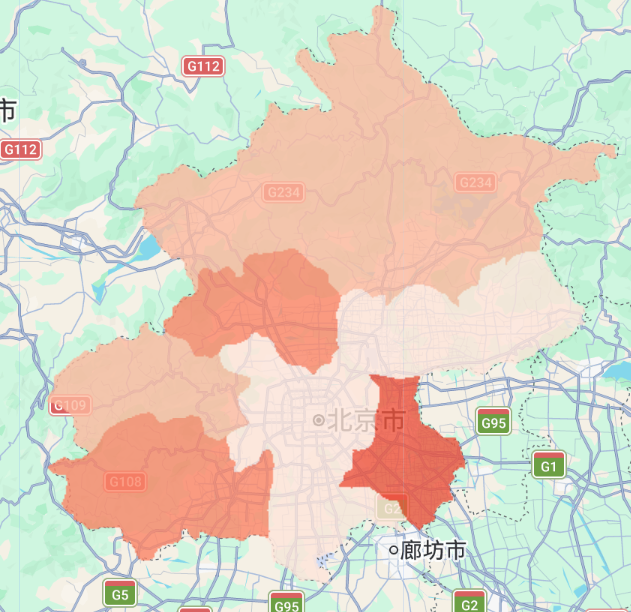
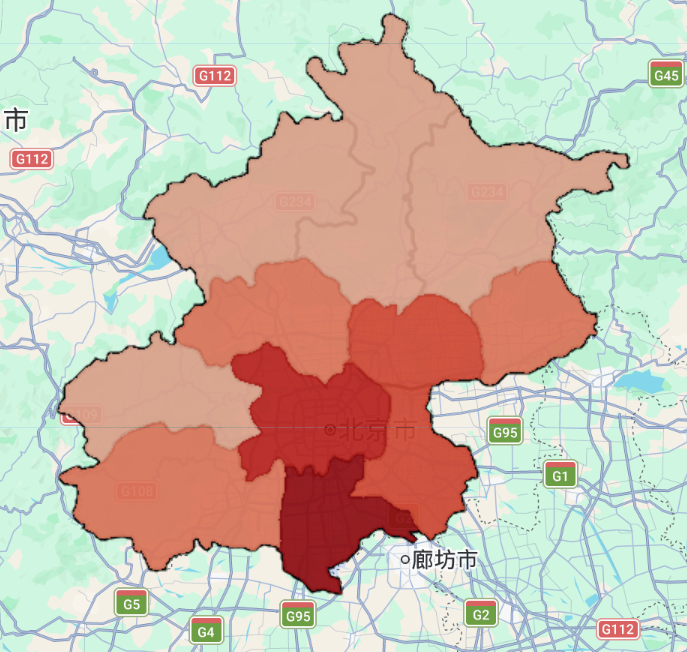
week9 1.1

diff --git a/docs/week9.html b/docs/week9.html
@@ -9,7 +9,7 @@
 <meta name="author" content="Jianshu Wu">
 <meta name="dcterms.date" content="2026-03-21">
 
-<title>Week 9: Temperature – CASA0023 Learning Diary</title>
+<title>Week 9 Learning Diary: Temperature – CASA0023 Learning Diary</title>
 <style>
 code{white-space: pre-wrap;}
 span.smallcaps{font-variant: small-caps;}
@@ -444,10 +444,10 @@ window.Quarto = {
   <li><a href="#applications-of-the-content" id="toc-applications-of-the-content" class="nav-link" data-scroll-target="#applications-of-the-content">2. Applications of the Content</a>
   <ul class="collapse">
   <li><a href="#study-area-beijing-municipality" id="toc-study-area-beijing-municipality" class="nav-link" data-scroll-target="#study-area-beijing-municipality">2.1 Study Area: Beijing Municipality</a></li>
-  <li><a href="#workshop-loading-and-styling-the-study-area-boundary" id="toc-workshop-loading-and-styling-the-study-area-boundary" class="nav-link" data-scroll-target="#workshop-loading-and-styling-the-study-area-boundary">2.2 Workshop: Loading and Styling the Study Area Boundary</a></li>
-  <li><a href="#workshop-landsat-8-land-surface-temperature" id="toc-workshop-landsat-8-land-surface-temperature" class="nav-link" data-scroll-target="#workshop-landsat-8-land-surface-temperature">2.3 Workshop: Landsat 8 Land Surface Temperature</a></li>
-  <li><a href="#workshop-modis-time-series-and-per-district-analysis" id="toc-workshop-modis-time-series-and-per-district-analysis" class="nav-link" data-scroll-target="#workshop-modis-time-series-and-per-district-analysis">2.4 Workshop: MODIS Time Series and Per-District Analysis</a></li>
-  <li><a href="#workshop-heat-index-classification-in-gee-and-r" id="toc-workshop-heat-index-classification-in-gee-and-r" class="nav-link" data-scroll-target="#workshop-heat-index-classification-in-gee-and-r">2.5 Workshop: Heat Index Classification in GEE and R</a></li>
+  <li><a href="#loading-the-study-area-boundary" id="toc-loading-the-study-area-boundary" class="nav-link" data-scroll-target="#loading-the-study-area-boundary">2.2 Loading the Study Area Boundary</a></li>
+  <li><a href="#landsat-8-land-surface-temperature" id="toc-landsat-8-land-surface-temperature" class="nav-link" data-scroll-target="#landsat-8-land-surface-temperature">2.3 Landsat 8 Land Surface Temperature</a></li>
+  <li><a href="#modis-time-series-and-per-district-analysis" id="toc-modis-time-series-and-per-district-analysis" class="nav-link" data-scroll-target="#modis-time-series-and-per-district-analysis">2.4 MODIS Time Series and Per-District Analysis</a></li>
+  <li><a href="#heat-index-classification-in-gee-and-r" id="toc-heat-index-classification-in-gee-and-r" class="nav-link" data-scroll-target="#heat-index-classification-in-gee-and-r">2.5 Heat Index Classification in GEE and R</a></li>
   <li><a href="#extended-analysis-mann-kendall-trend-test" id="toc-extended-analysis-mann-kendall-trend-test" class="nav-link" data-scroll-target="#extended-analysis-mann-kendall-trend-test">2.6 Extended Analysis: Mann-Kendall Trend Test</a></li>
   <li><a href="#literature-heat-justice-and-eo-evidence" id="toc-literature-heat-justice-and-eo-evidence" class="nav-link" data-scroll-target="#literature-heat-justice-and-eo-evidence">2.7 Literature: Heat Justice and EO Evidence</a></li>
   </ul></li>
@@ -466,7 +466,7 @@ window.Quarto = {
 
 <header id="title-block-header" class="quarto-title-block default">
 <div class="quarto-title">
-<h1 class="title">Week 9: Temperature</h1>
+<h1 class="title">Week 9 Learning Diary: Temperature</h1>
 <p class="subtitle lead">Urban Heat, Social Inequality, and Land Surface Temperature Analysis over Beijing in GEE and R</p>
 </div>
 
@@ -580,7 +580,7 @@ Percentile Rank vs.&nbsp;Absolute Temperature
 <h2 class="anchored" data-anchor-id="applications-of-the-content">2. Applications of the Content</h2>
 <section id="study-area-beijing-municipality" class="level3">
 <h3 class="anchored" data-anchor-id="study-area-beijing-municipality">2.1 Study Area: Beijing Municipality</h3>
-<p>I chose <strong>Beijing</strong> as the study area for this week, following the workshop structure exactly. Beijing municipality is an ideal case for urban heat analysis: it is a large, dense megacity surrounded by mountainous rural areas, meaning the contrast between <strong>hot urban core</strong> and <strong>cooler periphery</strong> is sharp and spatially interpretable. The municipality encompasses both the dense commercial and residential centre and extensive outer districts including mountainous terrain to the north and west.</p>
+<p>I chose <strong>Beijing</strong> as the study area for this week. Beijing municipality is an ideal case for urban heat analysis: it is a large, dense megacity surrounded by mountainous rural areas, meaning the contrast between <strong>hot urban core</strong> and <strong>cooler periphery</strong> is sharp and spatially interpretable. The municipality encompasses both the dense commercial and residential centre and extensive outer districts including mountainous terrain to the north and west.</p>
 <p>For administrative boundaries I used <strong>GADM 4.1</strong> rather than FAO GAUL, because GAUL Level 2 returns only 2 features for Beijing — insufficient for meaningful per-district analysis. GADM Level 2 provides the overall municipality boundary (used for <code>filterBounds</code> and <code>clip</code>), while GADM Level 3 provides <strong>11 spatial units</strong>: 10 outer districts plus one combined central urban area encompassing the six inner districts that GADM aggregates into a single feature.</p>
 <div class="callout callout-style-default callout-note callout-titled">
 <div class="callout-header d-flex align-content-center">
@@ -596,9 +596,9 @@ GAUL vs GADM for Chinese Cities
 </div>
 </div>
 </section>
-<section id="workshop-loading-and-styling-the-study-area-boundary" class="level3">
-<h3 class="anchored" data-anchor-id="workshop-loading-and-styling-the-study-area-boundary">2.2 Workshop: Loading and Styling the Study Area Boundary</h3>
-<p>The first step follows the workshop exactly: load the global Level 1 administrative dataset for background reference, then define the study area boundary. Here the Beijing boundary is derived from GADM Level 2 using <code>.union()</code> to merge all district polygons into a single municipality outline, and the 11 GADM Level 3 districts are loaded separately for per-unit analysis.</p>
+<section id="loading-the-study-area-boundary" class="level3">
+<h3 class="anchored" data-anchor-id="loading-the-study-area-boundary">2.2 Loading the Study Area Boundary</h3>
+<p>The Beijing boundary is derived from GADM Level 2 using <code>.union()</code> to merge all district polygons into a single municipality outline, and the 11 GADM Level 3 districts are loaded separately for per-unit analysis.</p>
 <details>
 <summary>
 Show GEE code
@@ -622,9 +622,9 @@ Show GEE code
 <span id="cb1-17"><a href="#cb1-17" aria-hidden="true" tabindex="-1"></a><span class="bu">Map</span><span class="op">.</span><span class="fu">addLayer</span>(Beijing<span class="op">,</span> {}<span class="op">,</span> <span class="st">'Beijing'</span>)<span class="op">;</span></span></code><button title="Copy to Clipboard" class="code-copy-button"><i class="bi"></i></button></pre></div>
 </details>
 </section>
-<section id="workshop-landsat-8-land-surface-temperature" class="level3">
-<h3 class="anchored" data-anchor-id="workshop-landsat-8-land-surface-temperature">2.3 Workshop: Landsat 8 Land Surface Temperature</h3>
-<p>The Landsat workflow follows the workshop exactly. The thermal band <strong>ST_B10</strong> records top-of-atmosphere brightness temperature in <strong>Kelvin</strong>; after applying the standard scale factor and subtracting 273.1, the result is surface temperature in <strong>Celsius</strong>. A cloud cover threshold of <strong>&lt; 1%</strong> is used — Beijing’s relatively dry summer climate makes this feasible, and the resulting 13 scenes provide adequate coverage.</p>
+<section id="landsat-8-land-surface-temperature" class="level3">
+<h3 class="anchored" data-anchor-id="landsat-8-land-surface-temperature">2.3 Landsat 8 Land Surface Temperature</h3>
+<p>The thermal band <strong>ST_B10</strong> records top-of-atmosphere brightness temperature in <strong>Kelvin</strong>; after applying the standard scale factor and subtracting 273.1, the result is surface temperature in <strong>Celsius</strong>. A cloud cover threshold of <strong>&lt; 10%</strong> is used — Beijing’s relatively dry summer climate makes this feasible, and the resulting 13 scenes provide adequate coverage.</p>
 <details>
 <summary>
 Show GEE code
@@ -642,7 +642,7 @@ Show GEE code
 <span id="cb2-11"><a href="#cb2-11" aria-hidden="true" tabindex="-1"></a>  <span class="op">.</span><span class="fu">filterDate</span>(<span class="st">'2022-01-01'</span><span class="op">,</span> <span class="st">'2022-10-10'</span>)</span>
 <span id="cb2-12"><a href="#cb2-12" aria-hidden="true" tabindex="-1"></a>  <span class="op">.</span><span class="fu">filter</span>(ee<span class="op">.</span><span class="at">Filter</span><span class="op">.</span><span class="fu">calendarRange</span>(<span class="dv">5</span><span class="op">,</span> <span class="dv">9</span><span class="op">,</span><span class="st">'month'</span>))</span>
 <span id="cb2-13"><a href="#cb2-13" aria-hidden="true" tabindex="-1"></a>  <span class="op">.</span><span class="fu">filterBounds</span>(Beijing)</span>
-<span id="cb2-14"><a href="#cb2-14" aria-hidden="true" tabindex="-1"></a>  <span class="op">.</span><span class="fu">filter</span>(ee<span class="op">.</span><span class="at">Filter</span><span class="op">.</span><span class="fu">lt</span>(<span class="st">"CLOUD_COVER"</span><span class="op">,</span> <span class="dv">1</span>))</span>
+<span id="cb2-14"><a href="#cb2-14" aria-hidden="true" tabindex="-1"></a>  <span class="op">.</span><span class="fu">filter</span>(ee<span class="op">.</span><span class="at">Filter</span><span class="op">.</span><span class="fu">lt</span>(<span class="st">"CLOUD_COVER"</span><span class="op">,</span> <span class="dv">10</span>))</span>
 <span id="cb2-15"><a href="#cb2-15" aria-hidden="true" tabindex="-1"></a>  <span class="op">.</span><span class="fu">map</span>(applyScaleFactors)<span class="op">;</span></span>
 <span id="cb2-16"><a href="#cb2-16" aria-hidden="true" tabindex="-1"></a></span>
 <span id="cb2-17"><a href="#cb2-17" aria-hidden="true" tabindex="-1"></a><span class="fu">print</span>(landsat)<span class="op">;</span></span>
@@ -678,8 +678,8 @@ Show GEE code
 </figure>
 </div>
 </section>
-<section id="workshop-modis-time-series-and-per-district-analysis" class="level3">
-<h3 class="anchored" data-anchor-id="workshop-modis-time-series-and-per-district-analysis">2.4 Workshop: MODIS Time Series and Per-District Analysis</h3>
+<section id="modis-time-series-and-per-district-analysis" class="level3">
+<h3 class="anchored" data-anchor-id="modis-time-series-and-per-district-analysis">2.4 MODIS Time Series and Per-District Analysis</h3>
 <p>With only 13 Landsat scenes available, <strong>temporal analysis</strong> is limited. MODIS compensates — merging Aqua (153 images) and Terra (153 images) gives <strong>306 observations</strong> for the same period, enabling a meaningful temperature time series that reveals seasonal dynamics invisible to Landsat alone.</p>
 <details>
 <summary>
@@ -772,7 +772,7 @@ Show GEE code
 <figcaption>Figure 3: Mean summer LST derived from merged MODIS Aqua and Terra collections (May–September 2022) at <strong>1km resolution</strong> over Beijing municipality. The <strong>central urban core and southern plains</strong> show consistently higher temperatures (yellow–red), while the mountainous northern fringe remains cooler (blue–green) throughout the summer. Comparing this with <strong>Figure 1</strong> (Landsat, 30m), both confirm the same macro-pattern — the urban core and Daxing are the warmest areas, the northern mountain districts the coolest. However, Landsat reveals finer spatial heterogeneity — individual roads, industrial zones, and water bodies are distinguishable — while MODIS smooths these out. This trade-off motivates using Landsat for the spatial <strong>heat index</strong> (Section 2.5) and MODIS for the <strong>temporal trend</strong> (Section 2.6).</figcaption>
 </figure>
 </div>
-<p>For the per-district time series, the workshop uses <code>seriesByRegion</code> to plot a separate line for each administrative unit. With 11 GADM Level 3 districts and 306 merged Aqua+Terra images, the element count (11 × 306 = 3,366) stays within GEE’s 5,000 element limit, allowing the full merged dataset to be used.</p>
+<p>For the per-district time series, I used <code>seriesByRegion</code> to plot a separate line for each administrative unit. With 11 GADM Level 3 districts and 306 merged Aqua+Terra images, the element count (11 × 306 = 3,366) stays within GEE’s 5,000 element limit, allowing the full merged dataset to be used.</p>
 <details>
 <summary>
 Show GEE code
@@ -865,10 +865,11 @@ Why Export Triplets?
 </div>
 </div>
 </section>
-<section id="workshop-heat-index-classification-in-gee-and-r" class="level3">
-<h3 class="anchored" data-anchor-id="workshop-heat-index-classification-in-gee-and-r">2.5 Workshop: Heat Index Classification in GEE and R</h3>
+<section id="heat-index-classification-in-gee-and-r" class="level3">
+<h3 class="anchored" data-anchor-id="heat-index-classification-in-gee-and-r">2.5 Heat Index Classification in GEE and R</h3>
 <p>The final step classifies each district into a <strong>heat hazard level</strong> based on <strong>percentile rank</strong> of mean summer Landsat LST. This replicates the BBC heat vulnerability index methodology. I implemented this in both GEE and R to cross-check results.</p>
-<p>One thing I noticed while doing this: the BBC method was originally designed for datasets with hundreds of spatial units (like UK postcodes or wards). Applied to Beijing’s 11 districts, the p99 threshold ends up isolating just a single district — which is mathematically fine but feels a bit blunt for only 11 units. A standard deviation-based classification might actually be more appropriate at this scale, though that’s beyond the scope of this workshop.</p>
+<p>One thing I noticed while doing this: the BBC method was originally designed for datasets with hundreds of spatial units (like UK postcodes or wards). Applied to Beijing’s 11 districts, the p99 threshold ends up isolating just a single district — which is mathematically fine but feels a bit blunt for only 11 units. A standard deviation-based classification might actually be more appropriate at this scale, though implementing that is a further step I didn’t take here.</p>
+<p>When I cross-checked the GEE output against the R maps, the results didn’t match — four districts were showing as the lightest colour in GEE despite clearly having higher temperatures in R. After printing the mean values and percentile boundaries to the console, I found the cause: the classification code uses <strong>strict inequalities</strong> (<code>.lt()</code> and <code>.gt()</code>) throughout all conditions, meaning if a district’s mean LST falls <strong>exactly on a threshold value</strong> it doesn’t satisfy either side of the comparison and falls into the final <code>else</code> branch with <code>percentile_cat = 0</code>. With 11 districts this wasn’t a fringe case — Pinggu’s mean equalled p40 exactly, Shunyi equalled p70, Beijing equalled p90, and Daxing equalled p99, so 4 out of 11 districts were misclassified. The fix is to replace <code>.gt()</code> with <code>.gte()</code> for all lower-bound comparisons. This kind of bug would be invisible with hundreds of wards — the probability of any value hitting a threshold exactly approaches zero — but with only 11 features it broke nearly half the classification.</p>
 <section id="gee-implementation" class="level4">
 <h4 class="anchored" data-anchor-id="gee-implementation">GEE Implementation</h4>
 <details>
@@ -897,25 +898,25 @@ Show GEE code
 <span id="cb5-20"><a href="#cb5-20" aria-hidden="true" tabindex="-1"></a>    ee<span class="op">.</span><span class="fu">Number</span>(feat<span class="op">.</span><span class="fu">get</span>(<span class="st">'mean'</span>))<span class="op">.</span><span class="fu">lt</span>(p40)<span class="op">.</span><span class="fu">and</span>(ee<span class="op">.</span><span class="fu">Number</span>(feat<span class="op">.</span><span class="fu">get</span>(<span class="st">'mean'</span>))<span class="op">.</span><span class="fu">gt</span>(<span class="dv">0</span>))<span class="op">,</span></span>
 <span id="cb5-21"><a href="#cb5-21" aria-hidden="true" tabindex="-1"></a>    feat<span class="op">.</span><span class="fu">set</span>({<span class="st">'percentile_cat'</span><span class="op">:</span> <span class="dv">1</span>})<span class="op">,</span></span>
 <span id="cb5-22"><a href="#cb5-22" aria-hidden="true" tabindex="-1"></a>  ee<span class="op">.</span><span class="at">Algorithms</span><span class="op">.</span><span class="fu">If</span>(</span>
-<span id="cb5-23"><a href="#cb5-23" aria-hidden="true" tabindex="-1"></a>    ee<span class="op">.</span><span class="fu">Number</span>(feat<span class="op">.</span><span class="fu">get</span>(<span class="st">'mean'</span>))<span class="op">.</span><span class="fu">gt</span>(p40)<span class="op">.</span><span class="fu">and</span>(ee<span class="op">.</span><span class="fu">Number</span>(feat<span class="op">.</span><span class="fu">get</span>(<span class="st">'mean'</span>))<span class="op">.</span><span class="fu">lt</span>(p70))<span class="op">,</span></span>
+<span id="cb5-23"><a href="#cb5-23" aria-hidden="true" tabindex="-1"></a>    ee<span class="op">.</span><span class="fu">Number</span>(feat<span class="op">.</span><span class="fu">get</span>(<span class="st">'mean'</span>))<span class="op">.</span><span class="fu">gte</span>(p40)<span class="op">.</span><span class="fu">and</span>(ee<span class="op">.</span><span class="fu">Number</span>(feat<span class="op">.</span><span class="fu">get</span>(<span class="st">'mean'</span>))<span class="op">.</span><span class="fu">lt</span>(p70))<span class="op">,</span></span>
 <span id="cb5-24"><a href="#cb5-24" aria-hidden="true" tabindex="-1"></a>    feat<span class="op">.</span><span class="fu">set</span>({<span class="st">'percentile_cat'</span><span class="op">:</span> <span class="dv">2</span>})<span class="op">,</span></span>
 <span id="cb5-25"><a href="#cb5-25" aria-hidden="true" tabindex="-1"></a>  ee<span class="op">.</span><span class="at">Algorithms</span><span class="op">.</span><span class="fu">If</span>(</span>
-<span id="cb5-26"><a href="#cb5-26" aria-hidden="true" tabindex="-1"></a>    ee<span class="op">.</span><span class="fu">Number</span>(feat<span class="op">.</span><span class="fu">get</span>(<span class="st">'mean'</span>))<span class="op">.</span><span class="fu">gt</span>(p70)<span class="op">.</span><span class="fu">and</span>(ee<span class="op">.</span><span class="fu">Number</span>(feat<span class="op">.</span><span class="fu">get</span>(<span class="st">'mean'</span>))<span class="op">.</span><span class="fu">lt</span>(p90))<span class="op">,</span></span>
+<span id="cb5-26"><a href="#cb5-26" aria-hidden="true" tabindex="-1"></a>    ee<span class="op">.</span><span class="fu">Number</span>(feat<span class="op">.</span><span class="fu">get</span>(<span class="st">'mean'</span>))<span class="op">.</span><span class="fu">gte</span>(p70)<span class="op">.</span><span class="fu">and</span>(ee<span class="op">.</span><span class="fu">Number</span>(feat<span class="op">.</span><span class="fu">get</span>(<span class="st">'mean'</span>))<span class="op">.</span><span class="fu">lt</span>(p90))<span class="op">,</span></span>
 <span id="cb5-27"><a href="#cb5-27" aria-hidden="true" tabindex="-1"></a>    feat<span class="op">.</span><span class="fu">set</span>({<span class="st">'percentile_cat'</span><span class="op">:</span> <span class="dv">3</span>})<span class="op">,</span></span>
 <span id="cb5-28"><a href="#cb5-28" aria-hidden="true" tabindex="-1"></a>  ee<span class="op">.</span><span class="at">Algorithms</span><span class="op">.</span><span class="fu">If</span>(</span>
-<span id="cb5-29"><a href="#cb5-29" aria-hidden="true" tabindex="-1"></a>    ee<span class="op">.</span><span class="fu">Number</span>(feat<span class="op">.</span><span class="fu">get</span>(<span class="st">'mean'</span>))<span class="op">.</span><span class="fu">gt</span>(p90)<span class="op">.</span><span class="fu">and</span>(ee<span class="op">.</span><span class="fu">Number</span>(feat<span class="op">.</span><span class="fu">get</span>(<span class="st">'mean'</span>))<span class="op">.</span><span class="fu">lt</span>(p99))<span class="op">,</span></span>
+<span id="cb5-29"><a href="#cb5-29" aria-hidden="true" tabindex="-1"></a>    ee<span class="op">.</span><span class="fu">Number</span>(feat<span class="op">.</span><span class="fu">get</span>(<span class="st">'mean'</span>))<span class="op">.</span><span class="fu">gte</span>(p90)<span class="op">.</span><span class="fu">and</span>(ee<span class="op">.</span><span class="fu">Number</span>(feat<span class="op">.</span><span class="fu">get</span>(<span class="st">'mean'</span>))<span class="op">.</span><span class="fu">lt</span>(p99))<span class="op">,</span></span>
 <span id="cb5-30"><a href="#cb5-30" aria-hidden="true" tabindex="-1"></a>    feat<span class="op">.</span><span class="fu">set</span>({<span class="st">'percentile_cat'</span><span class="op">:</span> <span class="dv">4</span>})<span class="op">,</span></span>
 <span id="cb5-31"><a href="#cb5-31" aria-hidden="true" tabindex="-1"></a>  ee<span class="op">.</span><span class="at">Algorithms</span><span class="op">.</span><span class="fu">If</span>(</span>
-<span id="cb5-32"><a href="#cb5-32" aria-hidden="true" tabindex="-1"></a>    ee<span class="op">.</span><span class="fu">Number</span>(feat<span class="op">.</span><span class="fu">get</span>(<span class="st">'mean'</span>))<span class="op">.</span><span class="fu">gt</span>(p99)<span class="op">.</span><span class="fu">and</span>(ee<span class="op">.</span><span class="fu">Number</span>(feat<span class="op">.</span><span class="fu">get</span>(<span class="st">'mean'</span>))<span class="op">.</span><span class="fu">lte</span>(p100))<span class="op">,</span></span>
+<span id="cb5-32"><a href="#cb5-32" aria-hidden="true" tabindex="-1"></a>    ee<span class="op">.</span><span class="fu">Number</span>(feat<span class="op">.</span><span class="fu">get</span>(<span class="st">'mean'</span>))<span class="op">.</span><span class="fu">gte</span>(p99)<span class="op">,</span></span>
 <span id="cb5-33"><a href="#cb5-33" aria-hidden="true" tabindex="-1"></a>    feat<span class="op">.</span><span class="fu">set</span>({<span class="st">'percentile_cat'</span><span class="op">:</span> <span class="dv">5</span>})<span class="op">,</span></span>
 <span id="cb5-34"><a href="#cb5-34" aria-hidden="true" tabindex="-1"></a>    feat<span class="op">.</span><span class="fu">set</span>({<span class="st">'percentile_cat'</span><span class="op">:</span> <span class="dv">0</span>}))))))<span class="op">;</span></span>
 <span id="cb5-35"><a href="#cb5-35" aria-hidden="true" tabindex="-1"></a>})<span class="op">;</span></span>
 <span id="cb5-36"><a href="#cb5-36" aria-hidden="true" tabindex="-1"></a></span>
 <span id="cb5-37"><a href="#cb5-37" aria-hidden="true" tabindex="-1"></a><span class="kw">var</span> visParams_vec <span class="op">=</span> {</span>
 <span id="cb5-38"><a href="#cb5-38" aria-hidden="true" tabindex="-1"></a>  <span class="st">'palette'</span><span class="op">:</span> [<span class="st">'#fee5d9'</span><span class="op">,</span> <span class="st">'#fcae91'</span><span class="op">,</span> <span class="st">'#fb6a4a'</span><span class="op">,</span> <span class="st">'#de2d26'</span><span class="op">,</span> <span class="st">'#a50f15'</span>]<span class="op">,</span></span>
-<span id="cb5-39"><a href="#cb5-39" aria-hidden="true" tabindex="-1"></a>  <span class="st">'min'</span><span class="op">:</span> <span class="fl">0.0</span><span class="op">,</span></span>
+<span id="cb5-39"><a href="#cb5-39" aria-hidden="true" tabindex="-1"></a>  <span class="st">'min'</span><span class="op">:</span> <span class="dv">1</span><span class="op">,</span></span>
 <span id="cb5-40"><a href="#cb5-40" aria-hidden="true" tabindex="-1"></a>  <span class="st">'max'</span><span class="op">:</span> <span class="dv">5</span><span class="op">,</span></span>
-<span id="cb5-41"><a href="#cb5-41" aria-hidden="true" tabindex="-1"></a>  <span class="st">'opacity'</span><span class="op">:</span> <span class="fl">0.8</span><span class="op">,</span></span>
+<span id="cb5-41"><a href="#cb5-41" aria-hidden="true" tabindex="-1"></a>  <span class="st">'opacity'</span><span class="op">:</span> <span class="fl">1.0</span><span class="op">,</span></span>
 <span id="cb5-42"><a href="#cb5-42" aria-hidden="true" tabindex="-1"></a>}<span class="op">;</span></span>
 <span id="cb5-43"><a href="#cb5-43" aria-hidden="true" tabindex="-1"></a></span>
 <span id="cb5-44"><a href="#cb5-44" aria-hidden="true" tabindex="-1"></a><span class="kw">var</span> image <span class="op">=</span> ee<span class="op">.</span><span class="fu">Image</span>()<span class="op">.</span><span class="fu">float</span>()<span class="op">.</span><span class="fu">paint</span>(resub<span class="op">,</span> <span class="st">'percentile_cat'</span>)<span class="op">;</span></span>
@@ -934,7 +935,7 @@ Show GEE code
 <div class="quarto-figure quarto-figure-center">
 <figure class="figure">
 <p><img src="images/week9_heat_index.png" class="img-fluid figure-img"></p>
-<figcaption>Figure 5: Heat hazard index by district across Beijing, classified into five <strong>percentile-based levels</strong> in GEE. <strong>Daxing</strong> and the <strong>central urban core (Beijing)</strong> appear at the highest heat levels, while the mountain districts (Huairou, Yanqing, Mentougou) in the north and west occupy the lowest levels (Level 1–2), consistent with the spatial LST patterns observed in <strong>Figures 1 and 3</strong>.</figcaption>
+<figcaption>Figure 5: Heat hazard index by district across Beijing, classified into five <strong>percentile-based levels</strong> in GEE (after fixing the boundary condition bug — see text above). <strong>Daxing</strong> is at Level 5, the <strong>central urban core</strong> at Level 4, and the northern mountain districts (Huairou, Yanqing, Mentougou) at Levels 1–2, now fully consistent with the R output in <strong>Figure 7</strong> and the spatial LST patterns in <strong>Figures 1 and 3</strong>.</figcaption>
 </figure>
 </div>
 </section>
@@ -987,13 +988,13 @@ Show R code
 <div class="quarto-figure quarto-figure-center">
 <figure class="figure">
 <p><img src="images/week9_r_lst_mean.png" class="img-fluid figure-img"></p>
-<figcaption>Figure 6: Mean summer Landsat LST per district, Beijing (R/tmap). <strong>Daxing</strong> in the southern plain records the highest mean temperature (<strong>36.6°C</strong>), while <strong>Huairou</strong> in the northeast mountains records the lowest (<strong>30.7°C</strong>), a spread of approximately 6°C driven primarily by differences in elevation, land cover, and distance from the urban core.</figcaption>
+<figcaption>Figure 6: Mean summer Landsat LST per district, Beijing (R/tmap). <strong>Daxing</strong> in the southern plain and the <strong>central urban core</strong> both record the highest mean temperatures (36–37°C range), while <strong>Huairou</strong> in the northeast mountains records the lowest (<strong>30.7°C</strong>). The spread of approximately 6°C is driven primarily by differences in elevation, land cover type, and impervious surface density.</figcaption>
 </figure>
 </div>
 <div class="quarto-figure quarto-figure-center">
 <figure class="figure">
 <p><img src="images/week9_r_heat_map.png" class="img-fluid figure-img"></p>
-<figcaption>Figure 7: Heat hazard index map produced in R using tmap, reproduced from the GeoJSON exported from GEE. In both the GEE output (<strong>Figure 5</strong>) and this R output, <strong>Daxing</strong> is consistently classified at <strong>Level 5</strong> and the northern mountain districts (Yanqing, Huairou) at <strong>Level 1</strong>, confirming that both implementations produce equivalent classifications. The percentile breakpoints computed in R (p40 = 32.04°C, p70 = 34.71°C, p90 = 36.34°C) confirm the <strong>distribution is narrow</strong> — all 11 districts fall within a ~7°C range — making the <strong>relative ranking</strong> the more policy-relevant metric rather than absolute temperature values.</figcaption>
+<figcaption>Figure 7: Heat hazard index map produced in R using tmap, reproduced from the GeoJSON exported from GEE. <strong>Daxing</strong> is classified at <strong>Level 5</strong>, the <strong>central urban core</strong> at <strong>Level 4</strong>, and Tongzhou at Level 3–4, while the northern mountain districts (Yanqing, Huairou) sit at <strong>Level 1</strong>. This pattern is consistent with the mean LST map in Figure 6 — both Daxing’s flat agricultural plains and the dense impervious surfaces of the urban core drive high summer temperatures, just through different mechanisms. The percentile breakpoints computed in R (p40 = 32.04°C, p70 = 34.71°C, p90 = 36.34°C) confirm the <strong>distribution is narrow</strong> — all 11 districts fall within a ~7°C range — making the <strong>relative ranking</strong> the more policy-relevant metric rather than absolute temperature values.</figcaption>
 </figure>
 </div>
 <p>The interactive map overlays the 30m Landsat LST raster with the district-level heat index polygons, allowing inspection of the correspondence between <strong>pixel-level temperature variation</strong> and the <strong>district-level classification</strong>.</p>
@@ -1028,7 +1029,7 @@ Show R code — interactive map
 </section>
 <section id="extended-analysis-mann-kendall-trend-test" class="level3">
 <h3 class="anchored" data-anchor-id="extended-analysis-mann-kendall-trend-test">2.6 Extended Analysis: Mann-Kendall Trend Test</h3>
-<p>Going beyond the workshop, I ran a <strong>Mann-Kendall trend test</strong> on the MODIS triplets CSV to determine whether each district showed a <strong>statistically significant temperature trend</strong> over the May–September 2022 period.</p>
+<p>I also ran a <strong>Mann-Kendall trend test</strong> on the MODIS triplets CSV to determine whether each district showed a <strong>statistically significant temperature trend</strong> over the May–September 2022 period.</p>
 <details>
 <summary>
 Show R code
@@ -1069,7 +1070,7 @@ Show R code
 <span id="cb8-34"><a href="#cb8-34" aria-hidden="true" tabindex="-1"></a>        <span class="at">legend.position =</span> <span class="st">"none"</span>)</span></code><button title="Copy to Clipboard" class="code-copy-button"><i class="bi"></i></button></pre></div>
 </details>
 <p>All 11 districts show a <strong>statistically significant negative tau</strong> (all p &lt; 0.001), indicating a consistent <strong>cooling trend</strong> across the summer period. This reflects the seasonal influence of the <strong>East Asian summer monsoon</strong>: temperatures peak in May–June then decline through July–August as monsoon rainfall increases cloud cover and reduces incoming solar radiation. <strong>Daxing</strong> shows the steepest decline (τ = −0.349), consistent with its low-lying plain location most exposed to monsoonal rainfall, while <strong>Yanqing</strong> shows the weakest trend (τ = −0.145), reflecting its more sheltered mountainous position.</p>
-<p>That said, I should note that the monsoon season also brings heavy cloud cover, and the workshop didn’t apply any <strong>QA bitmask cloud filtering</strong> to the MODIS data. This means some of those very sharp dips in the time series — particularly the drop to around 7°C visible in early June (Figure 2) — are almost certainly <strong>cloud contamination</strong> rather than real surface cooling. MODIS is an optical sensor and picks up cloud-top temperatures when thick cloud is present. A more rigorous approach would apply the MODIS QA band to mask cloudy pixels before computing the time series. I followed the workshop method here, which skips that step to keep the workflow manageable, but it’s worth keeping in mind when interpreting the Mann-Kendall results — the negative tau values might partly reflect increasing cloud cover through the monsoon season rather than pure surface cooling.</p>
+<p>That said, I should note that the monsoon season also brings heavy cloud cover, and I didn’t apply any <strong>QA bitmask cloud filtering</strong> to the MODIS data. This means some of those very sharp dips in the time series — particularly the drop to around 7°C visible in early June (Figure 2) — are almost certainly <strong>cloud contamination</strong> rather than real surface cooling. MODIS is an optical sensor and picks up cloud-top temperatures when thick cloud is present. A more rigorous approach would apply the MODIS QA band to mask cloudy pixels before computing the time series. I skipped that step to keep the workflow manageable, but it’s worth keeping in mind when interpreting the Mann-Kendall results — the negative tau values might partly reflect increasing cloud cover through the monsoon season rather than pure surface cooling.</p>
 <div class="quarto-figure quarto-figure-center">
 <figure class="figure">
 <p><img src="images/week9_r_boxplot.png" class="img-fluid figure-img"></p>
@@ -1079,7 +1080,7 @@ Show R code
 </section>
 <section id="literature-heat-justice-and-eo-evidence" class="level3">
 <h3 class="anchored" data-anchor-id="literature-heat-justice-and-eo-evidence">2.7 Literature: Heat Justice and EO Evidence</h3>
-<p><span class="citation" data-cites="wilson2020">(<a href="#ref-wilson2020" role="doc-biblioref">Wilson 2020</a>)</span> and <span class="citation" data-cites="li2022">(<a href="#ref-li2022" role="doc-biblioref">Li et al. 2022</a>)</span> both argue that <strong>heat maps only become policy-relevant when overlaid with socio-economic data</strong> — knowing <em>where</em> it is hot is less useful than knowing <em>who</em> is exposed there and <em>why</em>. <span class="citation" data-cites="maclachlan2021">(<a href="#ref-maclachlan2021" role="doc-biblioref">MacLachlan et al. 2021</a>)</span> provide a direct example in practice: using Landsat LST alongside green space and population density data to identify <strong>priority intervention zones</strong> in Perth, Australia. For Beijing, the heat index produced here (<strong>Figures 5 and 7</strong>) and the LST distribution (<strong>Figure 9</strong>) together show that <strong>Daxing</strong> and the <strong>central urban core</strong> consistently record the highest temperatures. Whether those areas also have lower green cover and higher population vulnerability is a question the analysis cannot yet answer, but it is exactly the kind of <strong>equity question</strong> that <span class="citation" data-cites="gee_book2023">(<a href="#ref-gee_book2023" role="doc-biblioref">Cardille et al. 2023</a>)</span> points towards.</p>
+<p><span class="citation" data-cites="wilson2020">(<a href="#ref-wilson2020" role="doc-biblioref">Wilson 2020</a>)</span> and <span class="citation" data-cites="li2022">(<a href="#ref-li2022" role="doc-biblioref">Li et al. 2022</a>)</span> both argue that <strong>heat maps only become policy-relevant when overlaid with socio-economic data</strong> — knowing <em>where</em> it is hot is less useful than knowing <em>who</em> is exposed there and <em>why</em>. <span class="citation" data-cites="maclachlan2021">(<a href="#ref-maclachlan2021" role="doc-biblioref">MacLachlan et al. 2021</a>)</span> provide a direct example in practice: using Landsat LST alongside green space and population density data to identify <strong>priority intervention zones</strong> in Perth, Australia. For Beijing, the heat index produced here (<strong>Figures 5 and 7</strong>) and the LST distribution (<strong>Figure 9</strong>) together show that <strong>Daxing</strong> (Level 5) and the <strong>central urban core</strong> (Level 4) consistently record the highest temperatures — Daxing through its flat, low-albedo agricultural plains, and the urban core through sheer density of impervious surface. Whether those areas also have lower green cover and higher population vulnerability is a question the analysis cannot yet answer, but it is exactly the kind of <strong>equity question</strong> that <span class="citation" data-cites="gee_book2023">(<a href="#ref-gee_book2023" role="doc-biblioref">Cardille et al. 2023</a>)</span> points towards.</p>
 <div class="callout callout-style-default callout-tip callout-titled">
 <div class="callout-header d-flex align-content-center">
 <div class="callout-icon-container">
@@ -1090,7 +1091,7 @@ Connecting Heat Index to Urban Policy
 </div>
 </div>
 <div class="callout-body-container callout-body">
-<p>The <strong>Level 4–5 districts</strong> identified here — primarily <strong>Daxing</strong> and the <strong>central urban core</strong> — could form the basis for targeted urban greening or heat emergency planning. Overlaying this heat index with <strong>population density</strong>, elderly population share, and green cover data would transform a thermal map into a genuine <strong>vulnerability assessment</strong>.</p>
+<p>The <strong>Level 4–5 districts</strong> identified here — <strong>Daxing</strong> and the <strong>central urban core</strong> — could form the basis for targeted urban greening or heat emergency planning, though for very different reasons: Daxing needs more vegetation cover on its agricultural plains, while the urban core needs shade trees and cool surface materials in its dense street network. Overlaying this heat index with <strong>population density</strong>, elderly population share, and green cover data would transform a thermal map into a genuine <strong>vulnerability assessment</strong>.</p>
 </div>
 </div>
 <hr>
@@ -1100,9 +1101,9 @@ Connecting Heat Index to Urban Policy
 <h2 class="anchored" data-anchor-id="personal-reflection">3. Personal Reflection</h2>
 <section id="from-classification-to-temperature" class="level3">
 <h3 class="anchored" data-anchor-id="from-classification-to-temperature">3.1 From Classification to Temperature</h3>
-<p>Weeks 7 and 8 produced land cover maps of Beijing — urban core, vegetation, bare earth, water. This week asks what those surfaces actually feel like in summer. The connection is immediate and satisfying: the areas that classified as <strong>dense urban or bare earth</strong> in weeks 7 and 8 are the same areas that appear yellow–green on the Landsat LST map (<strong>Figure 1</strong>). The heat index confirms this quantitatively, placing <strong>Daxing</strong> and the <strong>central urban core</strong> at the top of the thermal distribution — Daxing because of its flat, low-albedo agricultural plains, and the urban core because of the sheer density of impervious surface and building stock.</p>
+<p>Weeks 7 and 8 produced land cover maps of <strong>Chengdu</strong> — urban core, vegetation, bare earth, water. This week asks what those surfaces actually feel like in summer. The connection is immediate and satisfying: the areas that classified as <strong>dense urban or bare earth</strong> in weeks 7 and 8 share the same spectral logic as the hottest zones on the Landsat LST map here (<strong>Figure 1</strong>). The heat index confirms this quantitatively, placing <strong>Daxing</strong> at Level 5 and the <strong>central urban core</strong> at Level 4 — Daxing because of its flat, low-albedo agricultural plains, and the urban core because of the sheer density of impervious surface and building stock.</p>
 <p>What surprised me most was the <strong>seasonal structure</strong> in the MODIS time series — and the lesson it taught me about working with raw satellite data. Looking at Figure 2, I first noticed that temperatures peaked in late May and early June rather than July or August as I expected. Then came the dramatic late-June drop, with some districts falling below 10°C. My initial reaction was to interpret this as a powerful seasonal cooling signal driven by the East Asian monsoon rain belt arriving at Beijing’s latitude — the <strong>Mann-Kendall analysis</strong> even seemed to confirm this, showing a statistically significant <strong>negative tau</strong> across all 11 districts.</p>
-<p>But then I looked more carefully at the physics. A daytime land surface temperature of 7–10°C in Beijing in June is physically implausible — even with heavy rainfall, the ground doesn’t cool to near-freezing in summer. What’s actually happening is that the workshop methodology skips <strong>QA bitmask cloud filtering</strong>, so when thick monsoon cloud cover rolls in, the optical sensor picks up freezing <strong>cloud-top temperatures</strong> and averages them straight into the time series alongside real surface readings. The “dramatic cooling” in the chart is largely a data artefact rather than a real surface phenomenon. It was a useful reminder that a Mann-Kendall test can return a highly significant result and still be telling the wrong physical story if the data preprocessing was incomplete upstream.</p>
+<p>But then I looked more carefully at the physics. A daytime land surface temperature of 7–10°C in Beijing in June is physically implausible — even with heavy rainfall, the ground doesn’t cool to near-freezing in summer. What’s actually happening is that I didn’t apply <strong>QA bitmask cloud filtering</strong> to the MODIS collection, so when thick monsoon cloud cover rolls in, the optical sensor picks up freezing <strong>cloud-top temperatures</strong> and averages them straight into the time series alongside real surface readings. The “dramatic cooling” in the chart is largely a data artefact rather than a real surface phenomenon. It was a useful reminder that a Mann-Kendall test can return a highly significant result and still be telling the wrong physical story if the data preprocessing was incomplete upstream.</p>
 </section>
 <section id="limitations-and-the-question-of-what-hot-means" class="level3">
 <h3 class="anchored" data-anchor-id="limitations-and-the-question-of-what-hot-means">3.2 Limitations and the Question of What “Hot” Means</h3>
@@ -1121,7 +1122,7 @@ Surface Temperature Is Not Air Temperature
 <p><strong>LST</strong> from Landsat or MODIS measures the temperature of the <strong>surface material</strong> — not the air temperature that people experience. In dense urban areas with dark impervious surfaces, LST can exceed air temperature by <strong>10–15°C</strong>. This distinction matters when translating satellite data into health risk estimates <span class="citation" data-cites="maclachlan2021">(<a href="#ref-maclachlan2021" role="doc-biblioref">MacLachlan et al. 2021</a>)</span>.</p>
 </div>
 </div>
-<p>There are also two places where the workshop methodology is deliberately simplified in ways that are worth being honest about. The cloud contamination issue already covered in Section 2.6 is one — skipping QA bitmasking keeps the workflow clean for learning purposes, but it does mean the time series statistics are noisier than they should be. The other is the <strong>sample size for the percentile heat index</strong>: the BBC method this is based on really comes into its own with hundreds of spatial units like UK wards or US census tracts. With only 11 Beijing districts, the p99 cutoff essentially just isolates the single hottest district, which feels a bit mechanical. The classification would probably be more informative applied at a finer spatial scale — sub-district or grid cell level — where the distribution has more shape to it. Neither of these undermines what I produced here, but they’re the first things I’d address if taking this further.</p>
+<p>There are also two places in my approach worth being honest about. The cloud contamination issue already covered in Section 2.6 is one — skipping QA bitmasking keeps the workflow clean but does mean the time series statistics are noisier than they should be. The other is the <strong>sample size for the percentile heat index</strong>: this method really comes into its own with hundreds of spatial units like UK wards or US census tracts. With only 11 Beijing districts, the p99 cutoff essentially just isolates the single hottest district, which feels a bit mechanical. The classification would probably be more informative applied at a finer spatial scale — sub-district or grid cell level — where the distribution has more shape to it. Neither of these undermines what I produced here, but they’re the first things I’d address if taking this further.</p>
 <hr>
 </section>
 </section>
